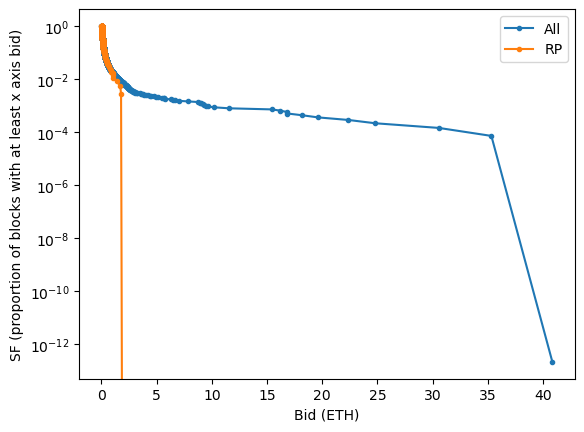
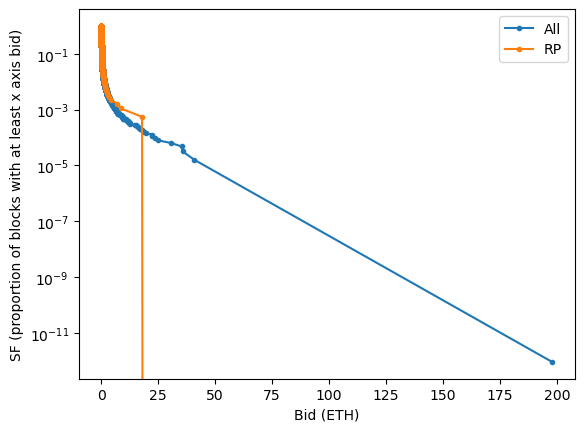
Up to 40ish weeks; added loglog plots

diff --git a/analysis.py b/analysis.py
@@ -97,7 +97,7 @@ def fix_bloxroute_missing_bids(df):
             try:
                 assert row['mev_reward_relay'] in ('bloXroute Max Profit', 'bloXroute Regulated')
             except AssertionError:
-                print('ERROR:')
+                print('WARNING: missing bid other than bloxroute')
                 print(row)
             ct += 1
             df.loc[ind, 'max_bid'] = row['mev_reward'] / BID2REWARD
@@ -246,6 +246,8 @@ def distribution_plots(df):
     ax.set_xlabel('Bid (ETH)')
     ax.set_ylabel('SF (proportion of blocks with at least x axis bid)')
     fig.savefig('./results/global_vs_rp.png', bbox_inches='tight')
+    ax.set_xscale('log')
+    fig.savefig('./results/global_vs_rp_loglog.png', bbox_inches='tight')
 
     # 5c/5d/5e RP correct vs not
     # - If wrong recipient has higher probability for high bids, that is a very clear sign of theft
@@ -259,6 +261,8 @@ def distribution_plots(df):
     ax.set_xlabel('Bid (ETH)')
     ax.set_ylabel('SF (proportion of blocks with at least x axis bid)')
     fig.savefig('./results/rp_subcategories.png', bbox_inches='tight')
+    ax.set_xscale('log')
+    fig.savefig('./results/rp_subcategories_loglog.png', bbox_inches='tight')
 
     # yokem suggestion Vanilla Blocks - RP vs non
     fig, ax = plt.subplots(1)
@@ -268,6 +272,8 @@ def distribution_plots(df):
     ax.set_xlabel('Bid (ETH)')
     ax.set_ylabel('SF (proportion of blocks with at least x axis bid)')
     fig.savefig('./results/vanilla_rp_vs_nonrp.png', bbox_inches='tight')
+    ax.set_xscale('log')
+    fig.savefig('./results/vanilla_rp_vs_nonrp_loglog.png', bbox_inches='tight')
 
     issue_nodes = unplotted_df['node_address']
     return Counter(issue_nodes)
@@ -327,6 +333,15 @@ def main():
 
 if __name__ == '__main__':
     main()
+
+# Notes:
+# - There was a bug based on using getMinipoolAt instead of getNodeMinipoolAt that was fixed in
+#   a hotfix executed 2022-11-10. This means the reth share we calculate may or may not be right
+#   based on smoothing pool participation and when the rewards were distributed. Calling it "close
+#   enough" and simply using what the contract returns despite knowing that may be slightly off for
+#   that period
+# - MEV grace period ended at slot 5203679 (2022-11-24 05:35:39Z UTC); see
+#   https://discord.com/channels/405159462932971535/405163979141545995/1044108182513012796
 
 # TODO check if theres's a period where nimbus bug caused issues that we should exclude
 #      that data; it might be May/June 2023

diff --git a/README.md b/README.md
@@ -9,7 +9,9 @@ We'll start high level and then go deeper.
 This first draft is looking at ~1.7 weeks of data.
 
 ### Global vs RP sanity check
-![image](./results/global_vs_rp.png)
+| ![image](./results/global_vs_rp.png)   | ![image](./results/global_vs_rp_loglog.png) |
+|:--------------------------------------:|:-------------------------------------------:|
+
 
 The plot above shows a survival function for bids on all blocks and just RP blocks. This is mostly a
 sanity check looking at if RP is being consistently lucky or unlucky, and we see no evidence that we
@@ -17,7 +19,8 @@ get better or worse bids. The curves move alongside each other well until data b
 be relied on at all.
 
 ### Is there systematic theft?
-![image](./results/rp_subcategories.png)
+| ![image](./results/rp_subcategories.png)  | ![image](./results/rp_subcategories_loglog.png) |
+|:-----------------------------------------:|:-----------------------------------------------:|
 
 The plot above is likely the most important item in this analysis. It shows whether we routinely see
 high bids on blocks where either the recipient is wrong or vanilla blocks are used. If we see either
@@ -87,7 +90,9 @@ Process finished with exit code 0
 The main take-away I found here is that vanilla blocks do represent a real performance hit.
 
 ### Vanilla blocks: RP vs nonRP sanity check
-![image](./results/vanilla_rp_vs_nonrp.png)
+| ![image](./results/vanilla_rp_vs_nonrp.png) | ![image](./results/vanilla_rp_vs_nonrp_loglog.png) |
+|:-------------------------------------------:|:--------------------------------------------------:|
+
 
 The plot above shows a survival function for bids on RP vanilla blocks vs non-RP vanilla blocks.
 Ideally we'd expect the same curves to be followed (and they are). If they were different, we'd have
